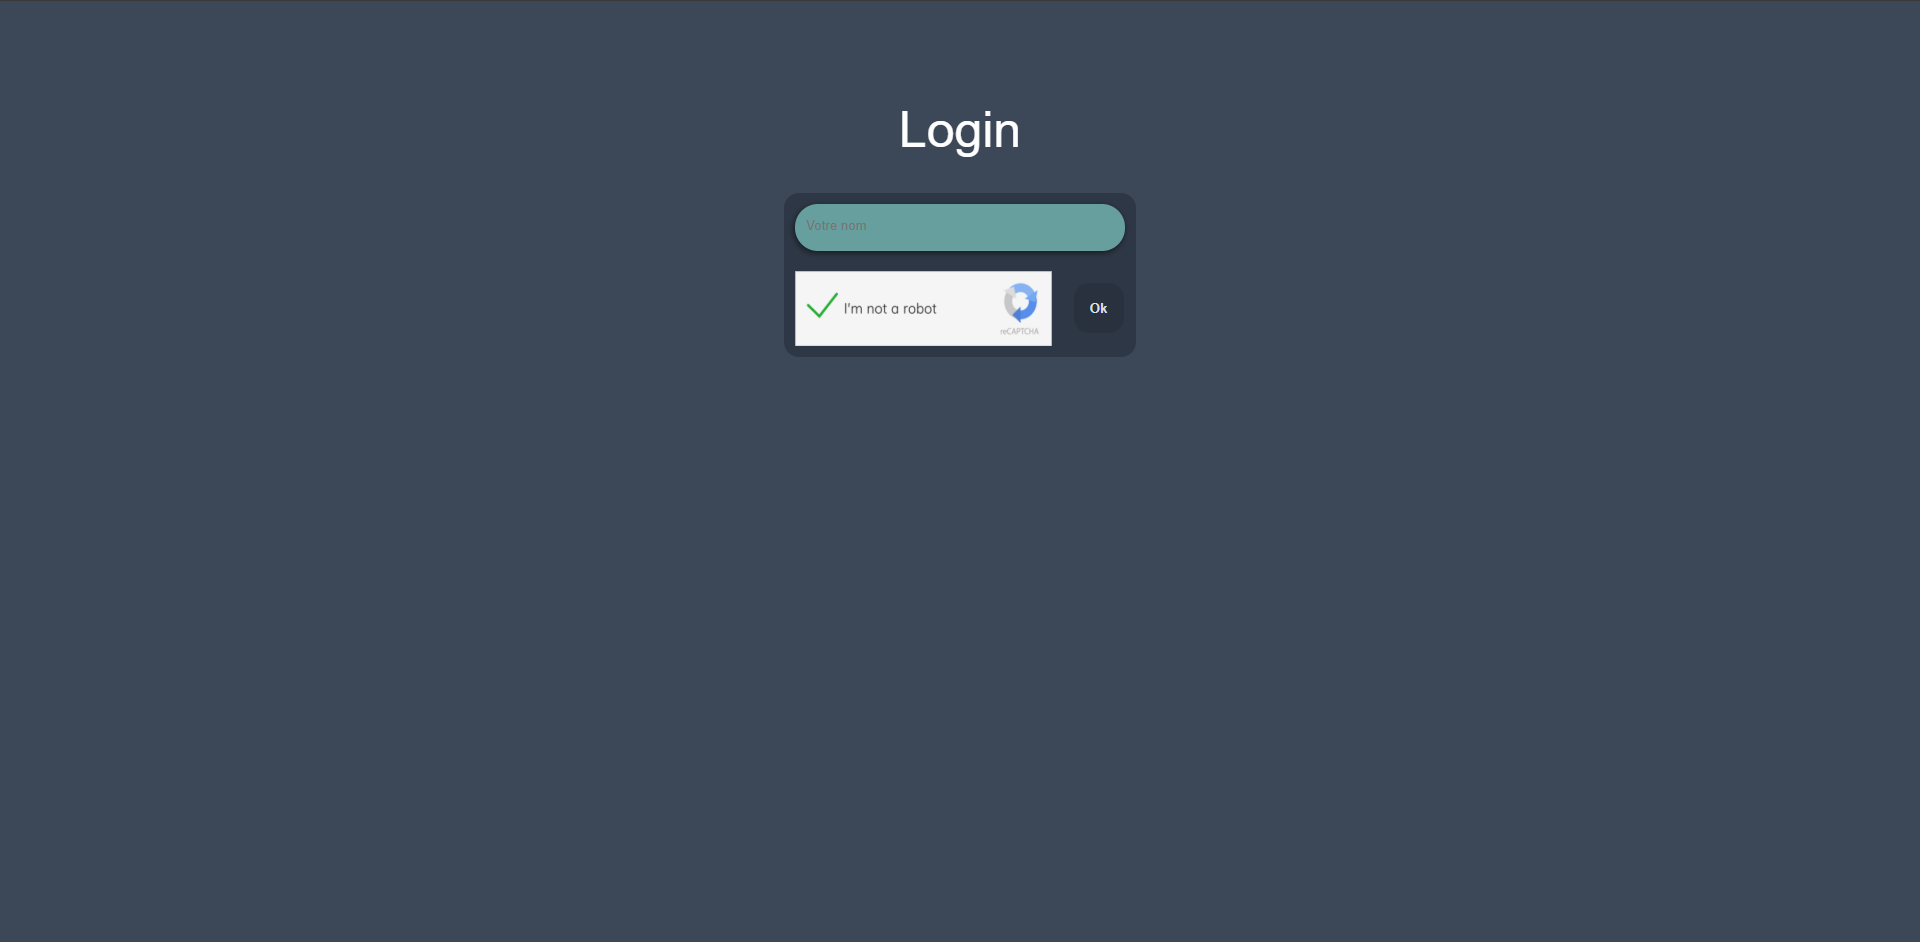
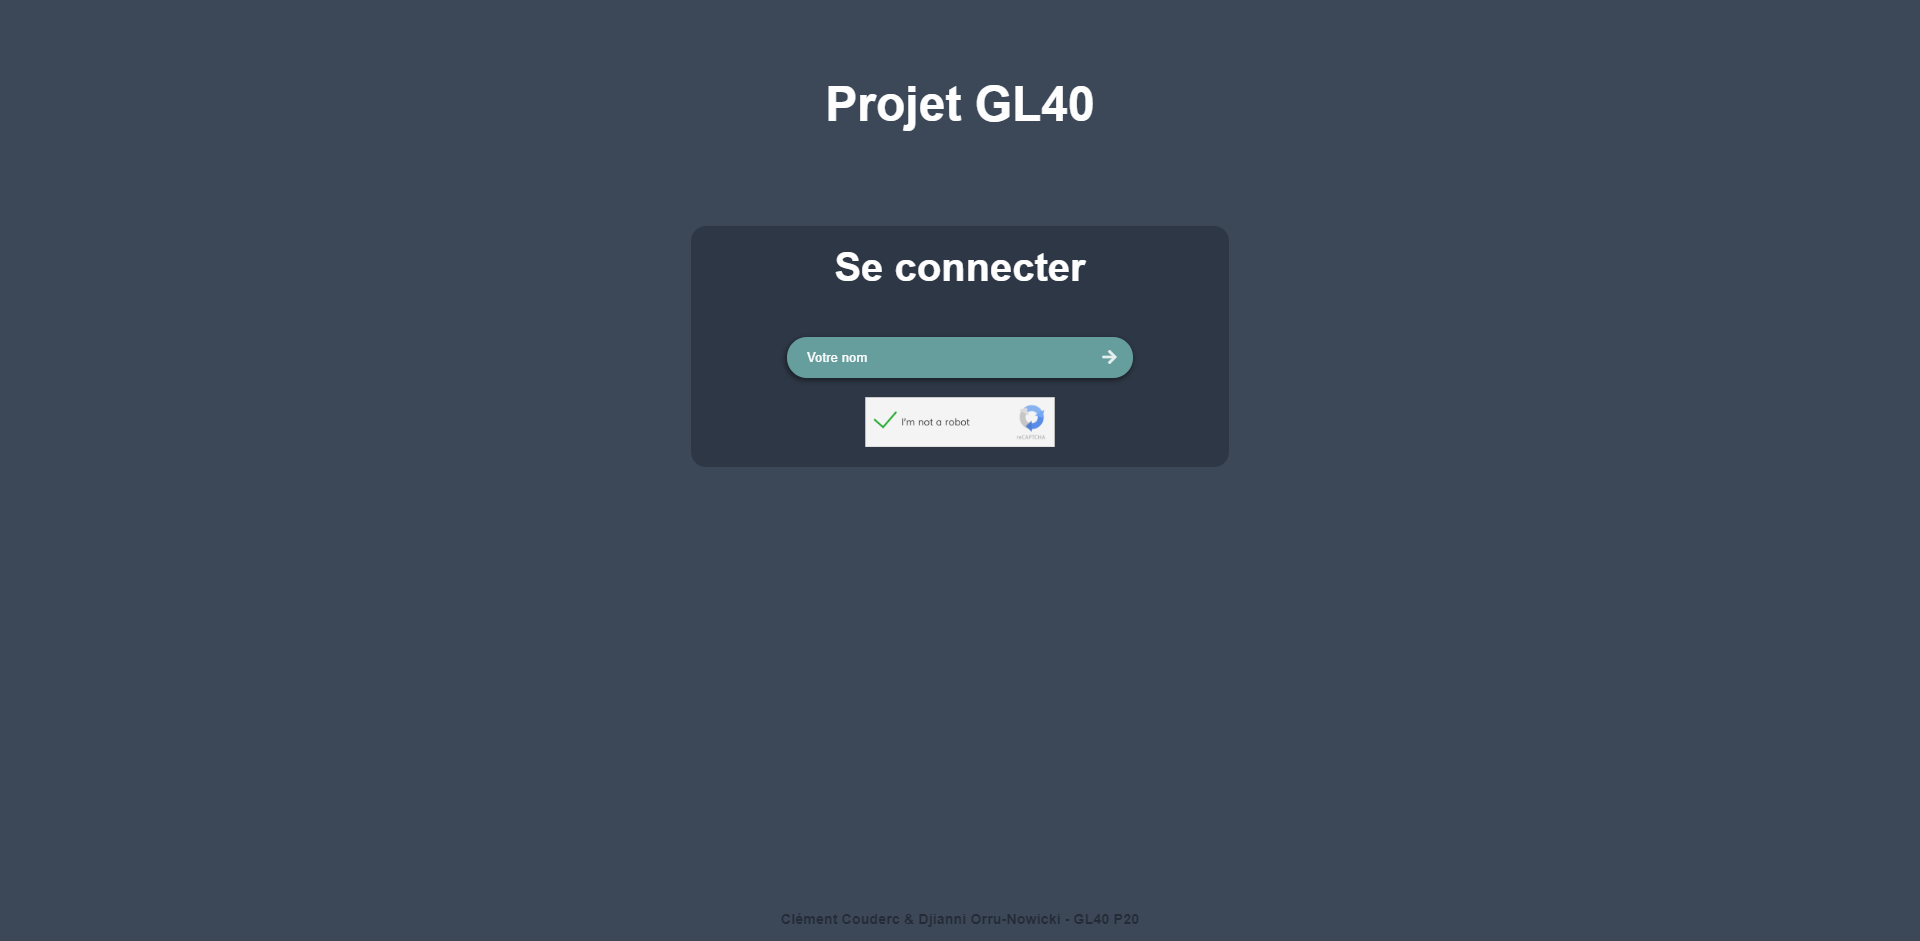
master: Login screen rework, fixed flex display issues

diff --git a/menu.html b/menu.html
@@ -2,52 +2,53 @@
 <html lang="en-US">
 <head>
     <meta charset="UTF-8">
-    <link rel="stylesheet" href="style/menu.css"/>
-    <link rel="stylesheet" href="style/main.css">
-    <link rel="stylesheet" href="https://cdnjs.cloudflare.com/ajax/libs/font-awesome/5.12.0-2/css/all.min.css">
-    <link rel="stylesheet" href="https://cdnjs.cloudflare.com/ajax/libs/animate.css/4.0.0/animate.min.css"/>
+    <link href="style/menu.css" rel="stylesheet"/>
+    <link href="style/main.css" rel="stylesheet">
+    <link href="https://cdnjs.cloudflare.com/ajax/libs/font-awesome/5.12.0-2/css/all.min.css" rel="stylesheet">
+    <link href="https://cdnjs.cloudflare.com/ajax/libs/animate.css/4.0.0/animate.min.css" rel="stylesheet"/>
     <title>Application</title>
 </head>
 <body class="animate__fadeIn animate__animated">
 <main>
-	<section class="left-panel">
-            <h2>Mes cours</h2>
-            <div class="cours-list">
-                <a href="main-chat.html" class="cours-list-title">GL40</a>
-                <a class="cours-list-title">LO43</a>
-            </div>
-            <div class="video-miniature">
+    <section class="left-panel">
+        <h2>Mes cours</h2>
+        <div class="cours-list">
+            <a class="cours-list-title" href="main-chat.html">GL40</a>
+            <a class="cours-list-title">LO43</a>
+        </div>
+        <div class="video-miniature">
 
-            </div>
-        </section>
-        <section class="right-panel">
-            <div class="right-section">
-                <h2>Rejoindre</h2>
-                <form class="container" action="main-chat.html">
-                    <div class="form-group">
-                        <input type="text" class="send-input" id="send-joinId" placeholder="Id du cours" required>
-                        <label class="send-input-label" for="send-joinId">
-                        </label>
-                    </div>
-                    <button type="submit" class="button-panel">
-                        <i class="fas fa-check" aria-hidden="true"></i>
-                    </button>
-                </form>
-            </div>
-            <div class="right-section">
-                <h2>Créer</h2>
-                <form class="container" action="main-chat.html">
-                    <div class="form-group">
-                        <input type="text" class="send-input" id="send-createId" placeholder="Nom du cours" required>
-                        <label class="send-input-label" for="send-createId">
-                        </label>
-                    </div>
-                    <button type="submit" class="button-panel">
-                        <i class="fas fa-check" aria-hidden="true"></i>
-                    </button>
-                </form>
-            </div>
-        </section>
+        </div>
+        <a class="disconnect-text" href="index.html">Se déconnecter</a>
+    </section>
+    <section class="right-panel">
+        <div class="right-section">
+            <h2>Rejoindre</h2>
+            <form action="main-chat.html" class="container">
+                <div class="form-group">
+                    <input class="send-input" id="send-joinId" placeholder="Id du cours" required type="text">
+                    <label class="send-input-label" for="send-joinId">
+                    </label>
+                </div>
+                <button class="button-panel" type="submit">
+                    <i aria-hidden="true" class="fas fa-check"></i>
+                </button>
+            </form>
+        </div>
+        <div class="right-section">
+            <h2>Créer</h2>
+            <form action="main-chat.html" class="container">
+                <div class="form-group">
+                    <input class="send-input" id="send-createId" placeholder="Nom du cours" required type="text">
+                    <label class="send-input-label" for="send-createId">
+                    </label>
+                </div>
+                <button class="button-panel" type="submit">
+                    <i aria-hidden="true" class="fas fa-check"></i>
+                </button>
+            </form>
+        </div>
+    </section>
 </main>
 
 

diff --git a/style/index.css b/style/index.css
@@ -1,35 +1,42 @@
-h1 {
-	display: flex;
-	color: #ffffff;
-	font-size: 50px;
-	font-weight: 100;
-	margin-top: 100px;
+.send-input-label {
+	font-size: 2.5em;
+	font-weight: bolder;
 	justify-content: center;
-	align-items: center;
+	margin-bottom: 3vh;
+}
+
+h1 {
+	margin: 4% auto;
+	font-weight: bold;
+	font-size: 3em;
+	display: block;
+	text-align: center;
 }
 
 .main {
 	background: #2e3745;
-	width: 350px;
+	width: 20%;
 	border-radius: 15px;
-	margin: 0 auto;
-	padding:1px;
+	display: flex;
+	flex-direction: column;
+	justify-items: center;
+	align-items: center;
+	margin: 10vh auto;
+	padding: 1% 4%;
 }
 
 .form-name {
-	height: 5vh;
+	display: flex;
 	background: #669f9e;
 	box-shadow: -1px 2px 5px 1px rgba(0, 0, 0, 0.4);
 	border-radius: 50px;
-	bottom: 0;
-	margin: 10px;
+	margin: 5%;
 }
 
-.send-input{
+.send-input {
 	display: block;
 	width: 90%;
-	height: 60%;
-	padding: 0.60em 0.1em 0.25em;
+	padding: 0.7em;
 	border: none;
 	border:0;
 	background: transparent;
@@ -41,34 +48,44 @@ h1 {
 	color: #ffffff;
 }
 
-.container{
-	display: flex;
-	flex-wrap: wrap;
-	justify-content: left;
+.send-input::placeholder {
+	color: white;
 }
 
-img {
-  margin: 10px;
-
-}
-
-.ok-btn {
-	background-color: rgba(0, 0, 0, 0.1);
+.validation-button {
+	background: none;
 	color: rgba(255, 255, 255, 0.84);
-	width: 50px;
-	height: 50px;
-	margin: auto;
-	border:0;
-	border-radius: 15px;
-	padding: 10px 15px;
-	font-size: 13px;
+	margin: 3%;
+	border-style: none;
 	font-weight: bold;
 	cursor: pointer;
 	opacity: 1;
-	visibility: visible;
+	font-size: 1em;
 }
 
-.ok-btn:hover {
+.name-line {
+	width: 100%;
+}
+
+.validation-button:hover {
+	color: black;
 	transition: all .3s ease;
-	background-color: rgba(0,0,0,0.8);
+}
+
+.captcha-img {
+	display: flex;
+	height: 50px;
+}
+
+footer {
+	position: fixed;
+	width: 100%;
+	text-align: center;
+	bottom: 0;
+}
+
+.footer-text {
+	color: #242b36;
+	font-size: 0.9em;
+	font-weight: bold;
 }

diff --git a/index.html b/index.html
@@ -5,30 +5,26 @@
 		<link rel="stylesheet" href="style/index.css" />
 		<link rel="stylesheet" href="style/main.css">
 		<link rel="stylesheet" href="https://cdnjs.cloudflare.com/ajax/libs/animate.css/4.0.0/animate.min.css"/>
+		<link rel="stylesheet" href="https://cdnjs.cloudflare.com/ajax/libs/font-awesome/5.12.0-2/css/all.min.css">
 		<title>Login Page</title>	
 	</head>
 
 <body class="animate__fadeIn animate__animated">
-		<h1>Login</h1>	
-	
-	<section>
-		<div class="main">
-			<div class="form-name">
-				<input type="text" class="send-input" id="send-name" placeholder="Votre nom">
-				<label class="send-input-label" for="send-name">
-				</label>
-			</div>
-			<div class="container">
-				<img src="img/captcha.png" width="257" height="75">
-				<button class="ok-btn" onclick="window.location.href='menu.html';">Ok</button>
-			</div>
-		</div>
-	</section>
-	
-	
-	<footer>
+	<h1>Projet GL40</h1>
+	<section class="main">
+			<label class="send-input-label" for="send-name">Se connecter</label>
 
+			<form class="name-line" action="menu.html">
+				<div class="form-name">
+					<input type="text" class="send-input" id="send-name" placeholder="Votre nom" required>
+					<button type="submit" class="validation-button"><i class="fas fa-arrow-right"></i></button>
+				</div>
+
+			</form>
+		<img class="captcha-img" src="img/captcha.png" alt="captcha image">
+	</section>
+	<footer>
+		<p class="footer-text">Clément Couderc & Djianni Orru-Nowicki - GL40 P20</p>
 	</footer>
-	
 </body>
 </html>

diff --git a/style/menu.css b/style/menu.css
@@ -19,7 +19,11 @@ main {
 	justify-items: center;
 	align-items: center;
 	flex-direction: column;
-	margin-top: 5%;
+}
+
+.left-panel h2 {
+	position: fixed;
+	margin-top: 5vh;
 }
 
 .cours-list{
@@ -47,8 +51,8 @@ main {
 	background: violet;
 	width: 50%;
 	height: 30%;
-	margin-bottom: 10%;
 	box-shadow: -1px 2px 5px 1px rgba(0, 0, 0, 0.4);
+	margin-bottom: 10%;
 }
 
 .right-panel{
@@ -123,4 +127,23 @@ main {
 
 .fa-check{
 	margin-top: 16%;
+}
+
+.disconnect-text {
+	text-decoration: none;
+	position: fixed;
+	color: #ff3c5e;
+	bottom: 0;
+	left: 0;
+	padding: 1%;
+	font-weight: bold;
+	margin: 1%;
+}
+
+.disconnect-text:hover {
+	color: white;
+	background: #ff3c5e;
+	animation-name: fadeIn;
+	animation-duration: 1s;
+	box-shadow: -1px 2px 5px 1px rgba(0, 0, 0, 0.4);
 }
